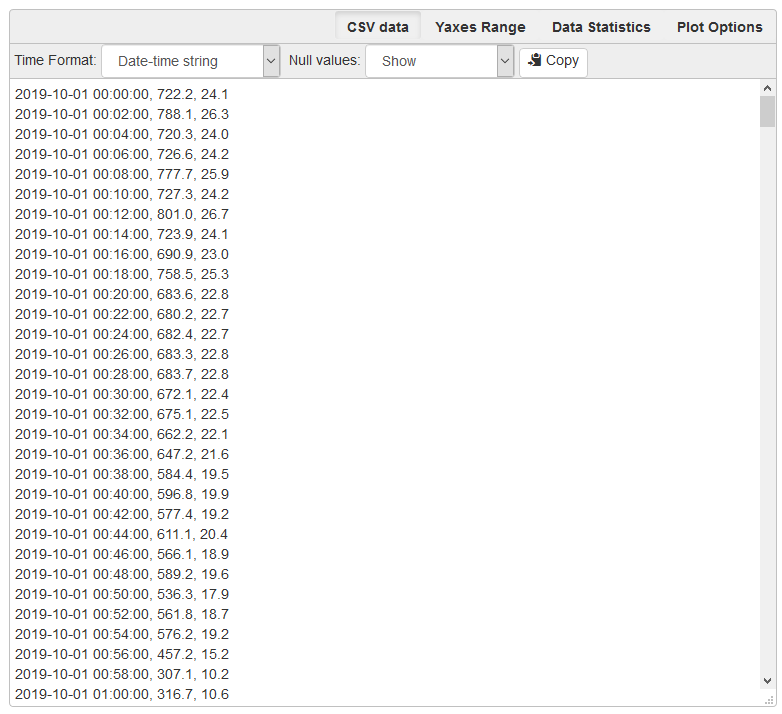
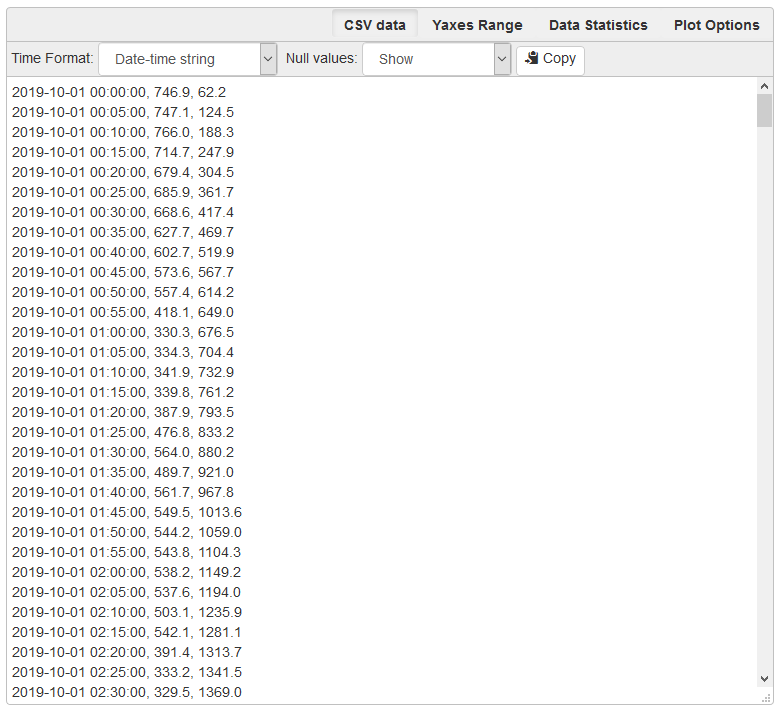
Update screenshots

Changed region(s): [[0.0, 0.0, 0.9859, 1.0], [0.8626, 0.0, 0.9859, 0.0621]]

diff --git a/SD/graph2.js b/SD/graph2.js
@@ -169,16 +169,16 @@ var colors = [      "#3a87fe",    // med blue
     **********************************************************************************************/
 
 var formats = [
-                    {max:1,         div:.001,     prefix:'m',   dp:0},
-                    {max:10,        div:1,        prefix:'',    dp:2},
-                    {max:100,       div:1,        prefix:'',    dp:1},
-                    {max:1000,      div:1,        prefix:'',    dp:0},
-                    {max:10000,     div:1000,     prefix:'k',   dp:2},
-                    {max:100000,    div:1000,     prefix:'k',   dp:1},
-                    {max:1000000,   div:1000,     prefix:'k',   dp:0},
-                    {max:10000000,  div:1000000,  prefix:'M',   dp:2},
-                    {max:100000000, div:1000000,  prefix:'M',   dp:1},
-                    {max:100000000000, div:1000000,  prefix:'M',   dp:0}
+                    {max:1,             div:.001,     prefix:'m',   dp:0},
+                    {max:10,            div:1,        prefix:'',    dp:2},
+                    {max:100,           div:1,        prefix:'',    dp:1},
+                    {max:1000,          div:1,        prefix:'',    dp:0},
+                    {max:10000,         div:1000,     prefix:'k',   dp:2},
+                    {max:100000,        div:1000,     prefix:'k',   dp:1},
+                    {max:1000000,       div:1000,     prefix:'k',   dp:0},
+                    {max:10000000,      div:1000000,  prefix:'M',   dp:2},
+                    {max:100000000,     div:1000000,  prefix:'M',   dp:1},
+                    {max:100000000000,  div:1000000,  prefix:'M',   dp:0}
               ]
 
     /**********************************************************************************************
@@ -189,10 +189,9 @@ var userDateChange = true;                      // Date change would be by user
 var custom_dates = false;                       // Period is user modified dates
 var periodIndex = 0;                            // Index of selected period option
 var periodDuration = 0;                         // Duration of graph period in seconds
-var interval = 60;                             // Seconds represented by first group of response
+var interval = 60;                              // Seconds represented by first group of response
 var showLegend = true;                          // Show the graph legend
 var showUnit = true;                            // Prefix series with unit: in graph legend
-var minmax = [];                                // Min and Max settings (entries for each unitIndex)  
 
     //********************************************************************************************
     //        Graph Reset - make a fresh start
@@ -256,7 +255,6 @@ function unitFormat(val, unit)
     }
     return Number(val).toFixed(0) + " " + unit;
 }
-
 
     //********************************************************************************************
     //        begin and end datetimepickers
@@ -1047,7 +1045,8 @@ function build_yaxes_table(){
       var line = "<tr>";
       line += "<td style='text-align:left'>"+yaxis.unit+"</td>";
       line += "<td>"+unitFormat(yaxis.tickmin,unit)+" to "+unitFormat(yaxis.tickmax,unit)+"</td>";
-      line += "<td>"+yaxis.datamin+" to "+yaxis.datamax+"</td>";
+      var dp = units[unitindex(unit)].dp;
+      line += "<td>"+Number(yaxis.datamin).toFixed(dp)+" to "+Number(yaxis.datamax).toFixed(dp)+"</td>";
       line += "<td><input class='table-input ymin text-center' unitindex="+unitindex(unit)+" style='width:50px' placeholder='auto' value="+min+"></td>";
       line += "<td></td>";
       line += "<td><input class='table-input ymax text-center' unitindex="+unitindex(unit)+" style='width:50px' placeholder='auto' value="+max+"></td>";
@@ -1062,6 +1061,10 @@ function build_CSV(){
     var timeformat = $("#csvtimeformat").val();
     var nullvalues = $("#csvnullvalues").val();
     var start_time = response.data[0][0];
+    var accrual = [];
+    for(f in feedlist){
+      accrual.push(0);
+    }
     for(var i=0; i<response.data.length; i++){
         var line = "";
         if (timeformat=="unix") {
@@ -1074,7 +1077,8 @@ function build_CSV(){
         
         for (var f in feedlist) {
             var dataindex = feedlist[f].dataindex;
-            if(response.data[i][dataindex]==null){
+            var value = response.data[i][dataindex];
+            if(value==null){
               if(nullvalues == "show"){
                 line += ", null";
               } else if(nullvalues == "remove"){
@@ -1084,7 +1088,11 @@ function build_CSV(){
                 line += ",";
               }
             } else {
-              line += ", " + Number(response.data[i][dataindex]*feedlist[f].scale).toFixed(feedlist[f].dp);
+              value = value * feedlist[f].scale + accrual[f];
+              line += ", " + Number(value).toFixed(feedlist[f].dp);
+              if(feedlist[f].accrue){
+                accrual[f] = value;
+              }
             }
         }
         if(line.length > 0) $("#csv").append(line+"\n");

diff --git a/Docs/index.rst b/Docs/index.rst
@@ -22,6 +22,8 @@ IoTaWatt documentation
     CT Basics <CTbasics>
     Data Visualization <dataVisualization>
     Graphing the Data <graphing>
+    Graph+ <graphPlus>
+    Original Graph <originalGraph>
     File Manager and Editor <fileManager>
     Message Log <messageLog>
     Troubleshooting <troubleshooting>
